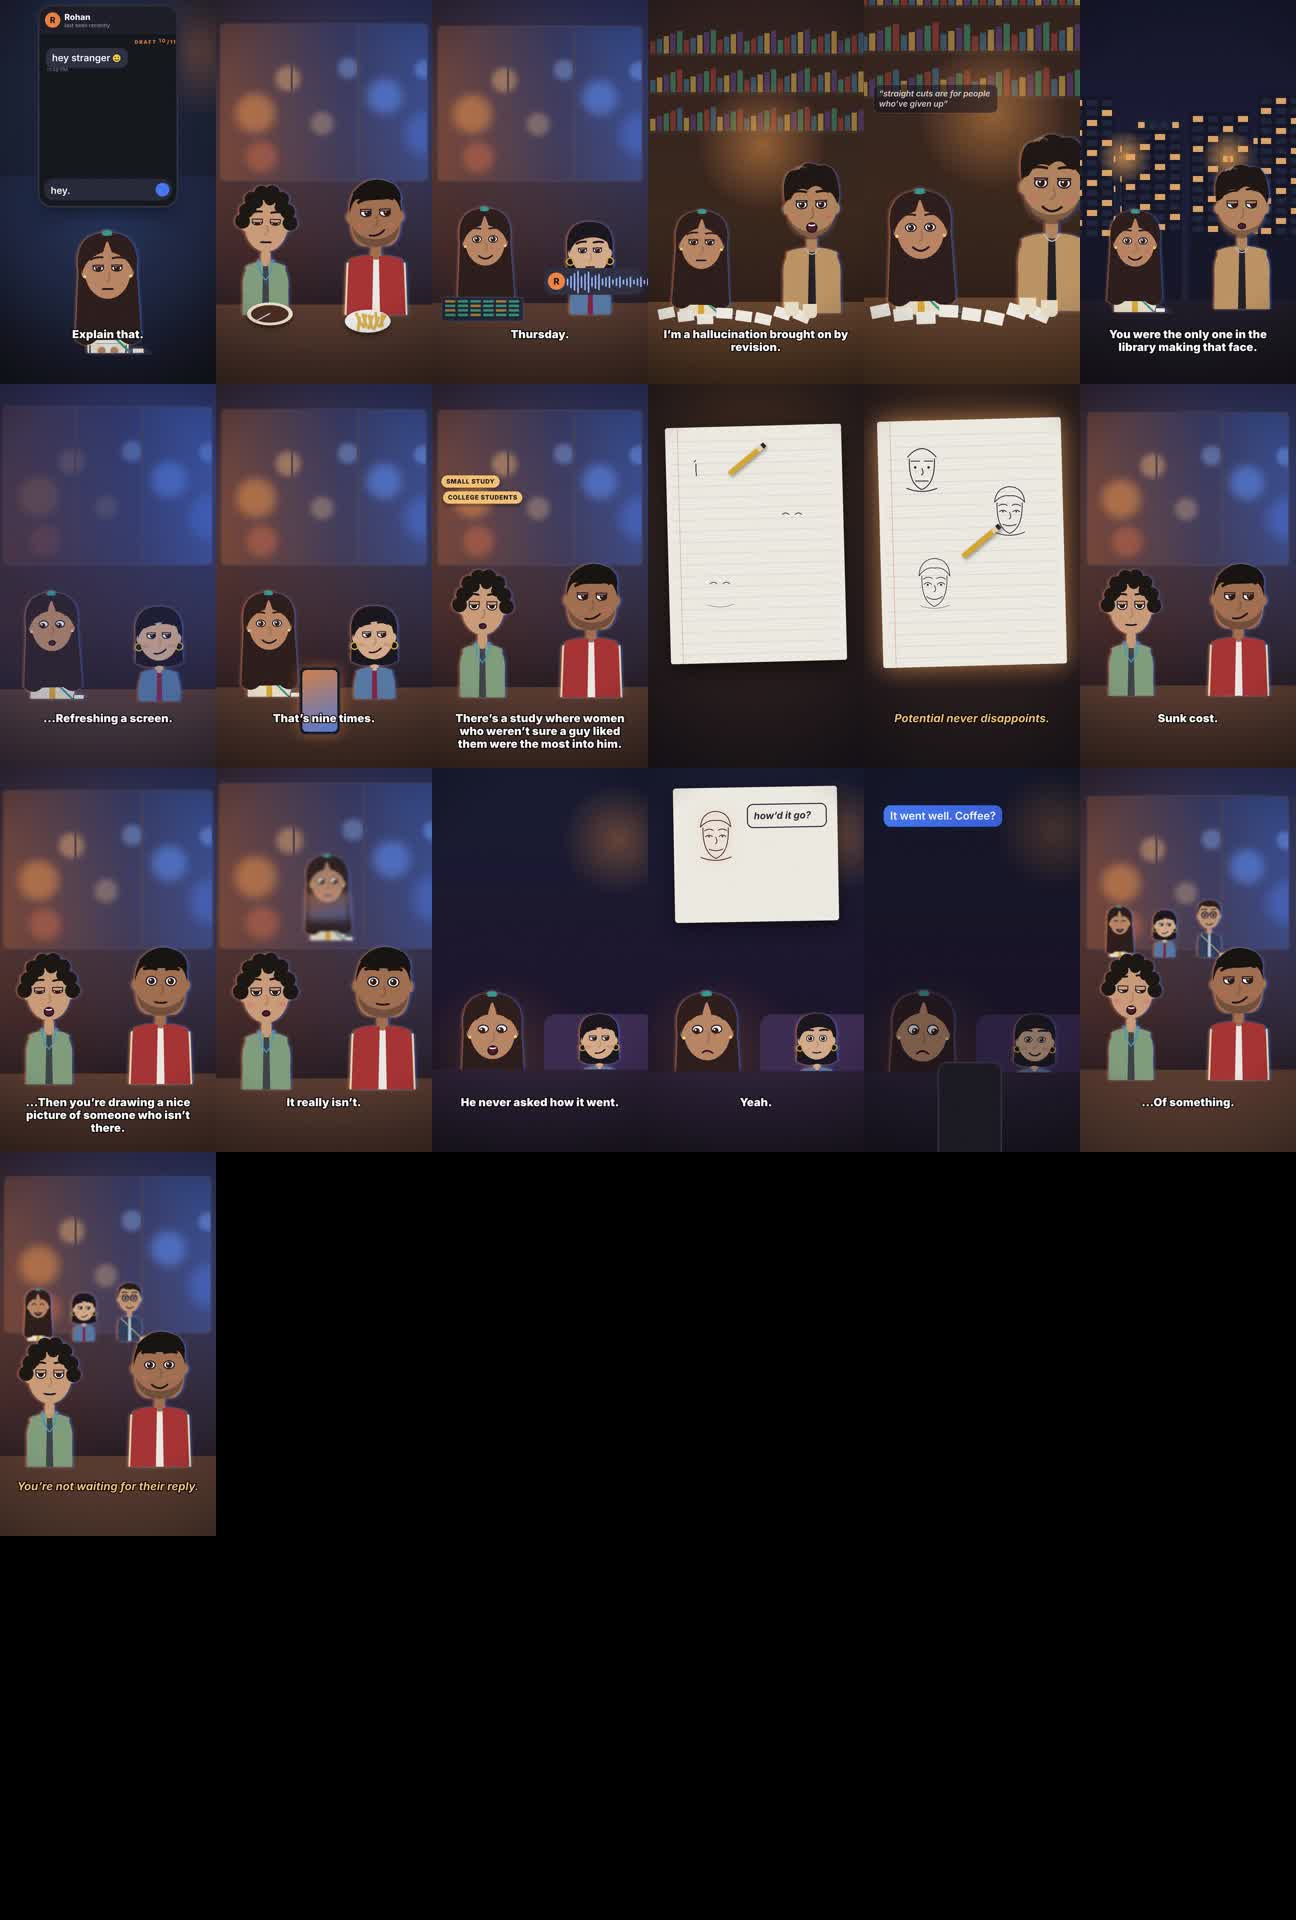
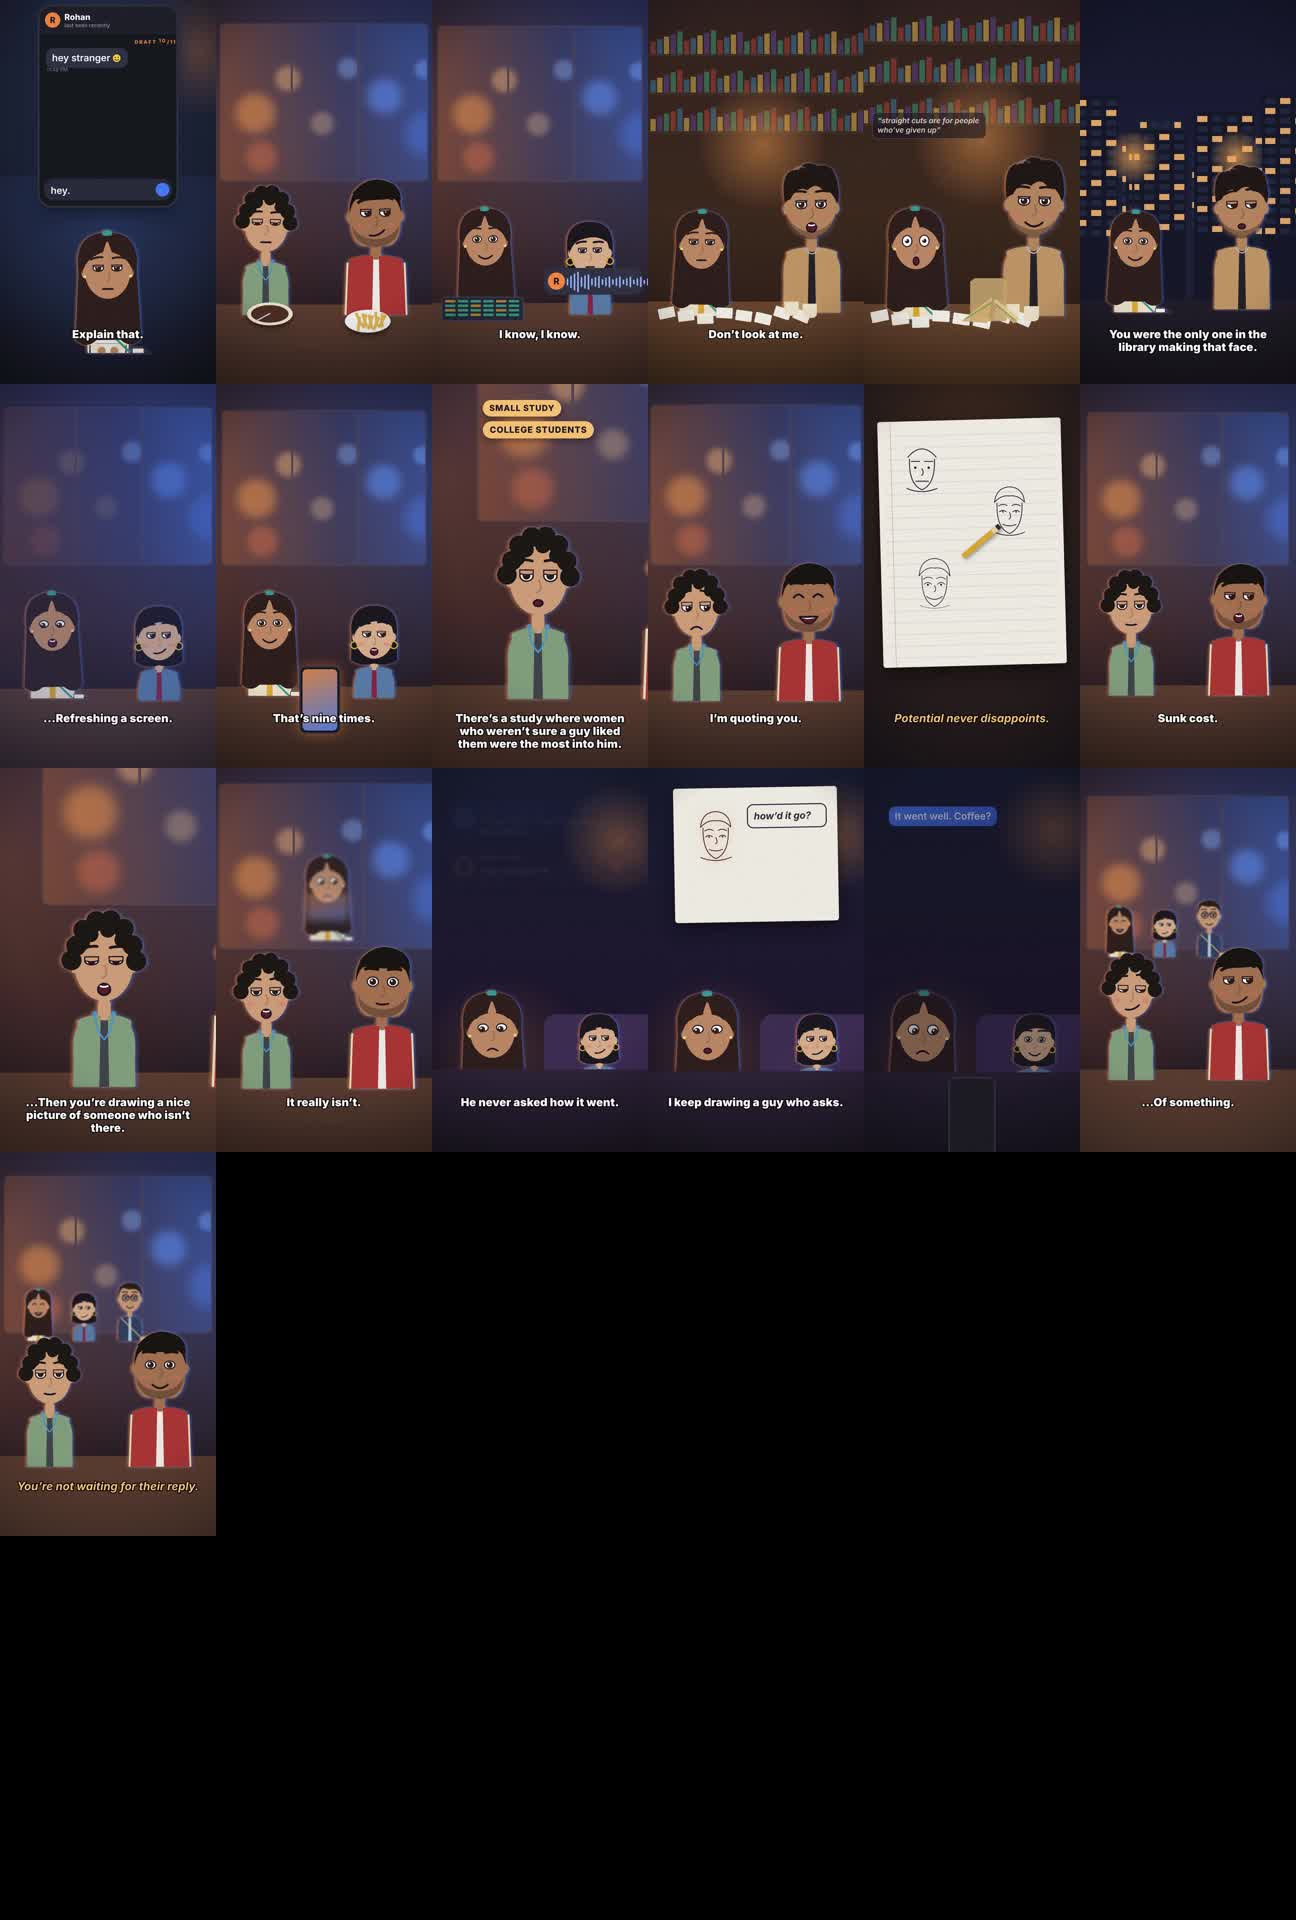
EP001 final: QC report, final SRT (video and wav renders kept out of git)
Claude-Session: https://claude.ai/code/session_01HK66cBgMqdDdB5EG74k6HJ

diff --git a/studio/toon_theory/ep001/PRODUCTION_REPORT.md b/studio/toon_theory/ep001/PRODUCTION_REPORT.md
@@ -39,3 +39,24 @@ ffmpeg -i <silent.mp4> -i audio/ep001_mix.wav -c:v copy -c:a aac -b:a 192k -shor
 - **Body animation is limited.** Characters are busts with expressive faces, lip-sync, head and breathing motion. They have no hands or full-body acting, which is the approved flat 2D style taken to its practical limit in this toolchain.
 - **The café two-shot recurs.** Close-up cuts and five other distinct sets break it up, but it remains the most repeated composition.
 - **The score is synthesised** (pads, plucks, music-box). It is functional and mood-matched by design, but simpler than a composed or licensed track.
+
+## Quality control (2 of the 3 allowed critique cycles used)
+Final file checks: 1080×1920, 30 fps H.264, AAC 192k, 174.2 s, full decode passes. Integrated loudness −14.7 LUFS, true peak −0.8 dBFS, voice 15.8 dB above the music/SFX bed, 0 clicks found in the bed. The Whisper transcript of the final video matches the script at 98.7%. Every scripted word is present; the remaining differences are transcription spellings ("canceled", "a m", a quoted 'hey'), plus one possible mishearing ("is" for "has") that was not confirmed by ear. SRT has 81 cues.
+
+| Category | Cycle 1 | Final | Note |
+|---|---|---|---|
+| Hook | 8 | 8 | |
+| Storytelling / emotional progression | 8 | 8 | |
+| Character consistency | 9 | 9 | |
+| Facial expressions / body language | 6 | 6 | **Below 8: tool/style limit** (faces and lip-sync yes, no hand/body acting) |
+| Environments | 7 | 7 | **Below 8:** flat layered sets by design |
+| Animation smoothness | 8 | 8 | |
+| Camera composition | 6 | 7 | Close-up cuts added; the two-shot still recurs |
+| Lighting / colour | 8 | 8 | |
+| Typography / captions | 8 | 8 | |
+| Audio quality / sync | 7 | 8* | *Measured only: missing word fixed; not verified by ear |
+| Editing rhythm | 7 | 7 | |
+| Originality | 7 | 7 | |
+
+Fixed between cycles: a missing first word in Meera's "Cancelled again?" (a dialogue-split bug), a white flash over the opening café shot, the title overlapping a character, the slot reels not landing on "hey hey hey", the voice-note card colliding with subtitles, a set edge revealed in the final pull-back, and a dark strip during close-ups. Added speaker close-up cuts; made the face-down phone smaller.
+I stopped after cycle 2 because the categories still below 8 are limits of the approved 2D-bust style and toolchain, which another cycle would not change.
